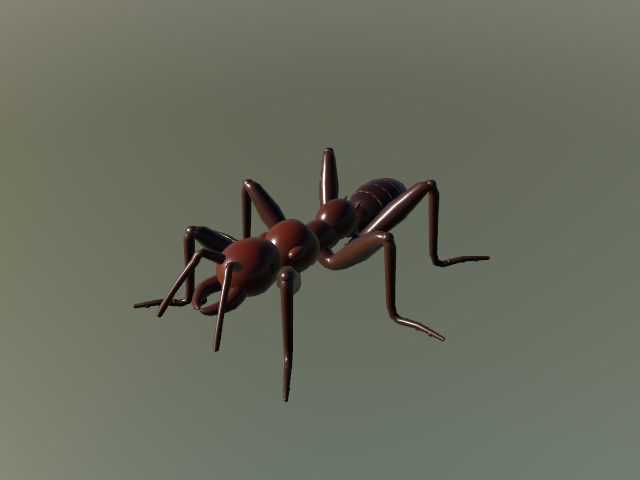
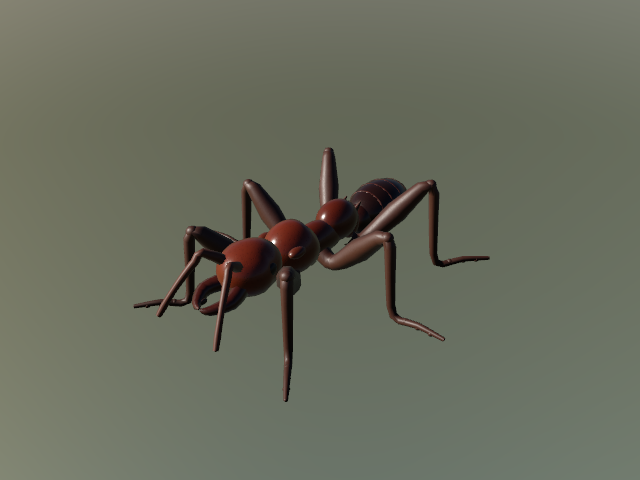
insect-bullet-ant: material variation, gate pass 0.857, signoff

diff --git a/Sources/RealLibrary/Nature/Insects/BulletAnt.swift b/Sources/RealLibrary/Nature/Insects/BulletAnt.swift
@@ -13,8 +13,8 @@ public struct BulletAnt: RealArticulated {
     public func rig(seed: UInt64) -> Rig {
         var p = InsectPlan(name: Self.id)
         let y: Float = 0.0082
-        let c: MaterialKey = "insect.chitin:3A1608"      // red-brown black mesosoma
-        let h: MaterialKey = "insect.chitin:4A1A0A"
+        let c: MaterialKey = "insect.chitin-chestnut:4A1A0A"      // red-brown black mesosoma
+        let h: MaterialKey = "insect.chitin-chestnut:5A2210"
         let g: MaterialKey = "insect.chitin:1E0C08"      // darker gaster
         p.height = y + 0.005
         p.bodyPivot = V3(0, y, 0.0035)
@@ -33,7 +33,7 @@ public struct BulletAnt: RealArticulated {
             .init(attach: V3(0.0012, y - 0.0010, z), side: 1, yaw: yaw, coxa: 0.0016, femur: f, tibia: t, tarsus: ta, lift: 40, radius: 0.00078, bulge: 1.45)
         }
         p.legs = [leg(0.0060, 50, 0.0072, 0.0074, 0.0050), leg(0.0015, 0, 0.0076, 0.0078, 0.0054), leg(-0.0025, -50, 0.0088, 0.0092, 0.0060)]
-        p.legMat = "insect.chitin:2E1208"; p.antennaMat = "insect.chitin:3A1608"
+        p.legMat = "insect.chitin-matte:3A1A0E"; p.antennaMat = "insect.chitin-matte:4A200E"
         p.antenna = .init(base: V3(0.0007, y + 0.0020, 0.0118), dir: V3(0.35, 0.6, 0.7), length: 0.0095, radius: 0.00042, curve: 0.3, elbow: 1.35, club: 0.3)
         p.extra = { rig, d, L in
             for side: Float in [1, -1] {

diff --git a/CATALOG.md b/CATALOG.md
@@ -104,7 +104,7 @@ Generated by `swift run -q realityhd catalog`. Do not edit by hand.
 | [`insect-crane-fly`](docs/assets/insect-crane-fly.png) | nature, insect, flying, crawling, articulated | 9324 / 2920 | 14000 | `insect.chitin-soft:8A7A62` `insect.chitin-soft:5E5242` `insect.chitin-soft:D8D0B8` `insect.chitin-soft:4A4034` `insect.eye:2A2018` `insect.chitin-soft:6E5E48` `insect.membrane` `insect.veins-fan` | realityhd | Crane fly, 2.5 cm body: grey-brown, legs 3x body length, narrow smoky wings, halteres, thin antennae; articulated. |
 | [`insect-green-lacewing`](docs/assets/insect-green-lacewing.png) | nature, insect, flying, crawling, articulated | 10140 / 3562 | 14000 | `insect.chitin-soft:A9D08A` `insect.chitin-soft:C6E0A6` `insect.eye:C8962A` `insect.chitin-soft:8DB86E` `insect.chitin-soft:9CC47A` `insect.membrane` `insect.veins-fan:8CC464` `insect.chitin-soft:8AB06A` | realityhd | Green lacewing, 1.3 cm body: pale green, golden eyes, long thread antennae, large net-veined wings held tent-wise; articulated. |
 | [`insect-millipede`](docs/assets/insect-millipede.png) | nature, insect, crawling, articulated | 25656 / 15226 | 28000 | `insect.chitin:3A281E` `insect.eye` `insect.chitin:4A3224` `insect.chitin:2A1E18` `insect.chitin:6A3624` `insect.chitin-soft:8A5A3C` `insect.chitin:382819` `insect.chitin:753D28` `insect.chitin:2D2019` `insect.chitin:5E301F` `insect.chitin:33241B` | realityhd | Giant millipede, 10 cm: cylindrical brown-black body, 45 rings with pale rear margins, two leg pairs per ring, short antennae; segment chain for walking wave. |
-| [`insect-bullet-ant`](docs/assets/insect-bullet-ant.png) | nature, insect, crawling, articulated | 9723 / 3637 | 16000 | `insect.chitin:4A1A0A` `insect.chitin:3A1608` `insect.chitin:4E1E0C` `insect.eye:2A1410` `insect.chitin:3A1208` `insect.chitin:2A0E06` `insect.chitin:1E0C08` `insect.chitin:2A1008` `insect.chitin:3E160A` `insect.chitin:5A2A12` `insect.chitin:2E1208` | realityhd | Bullet ant worker, 25 mm: glossy red-black chitin, sculpted mandibles, single petiole node, stout legs, elbowed antennae, stinger. |
+| [`insect-bullet-ant`](docs/assets/insect-bullet-ant.png) | nature, insect, crawling, articulated | 9723 / 3637 | 16000 | `insect.chitin-chestnut:5A2210` `insect.chitin-chestnut:4A1A0A` `insect.chitin:3A1608` `insect.chitin:4E1E0C` `insect.eye:2A1410` `insect.chitin:3A1208` `insect.chitin:2A0E06` `insect.chitin:1E0C08` `insect.chitin:2A1008` `insect.chitin:3E160A` `insect.chitin:5A2A12` `insect.chitin-matte:3A1A0E` `insect.chitin-matte:4A200E` | realityhd | Bullet ant worker, 25 mm: glossy red-black chitin, sculpted mandibles, single petiole node, stout legs, elbowed antennae, stinger. |
 
 ## Props
 
